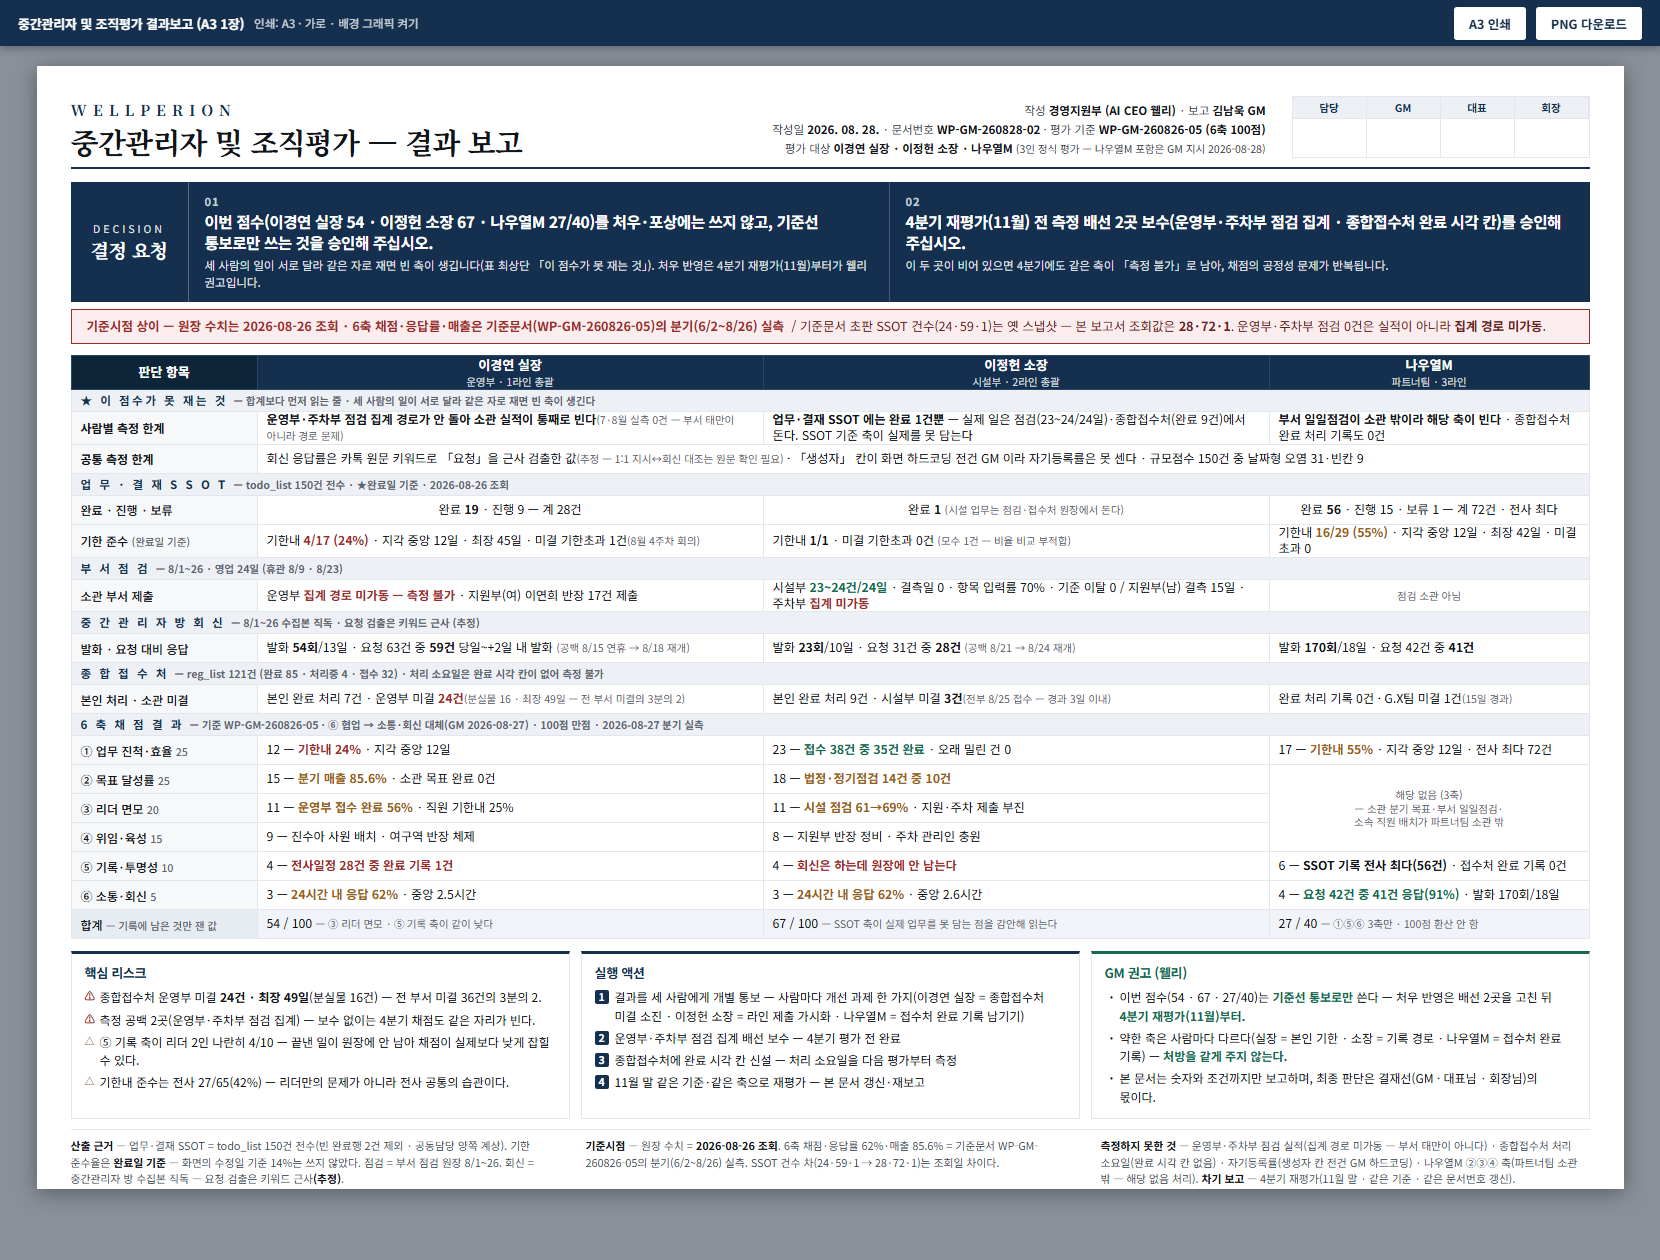
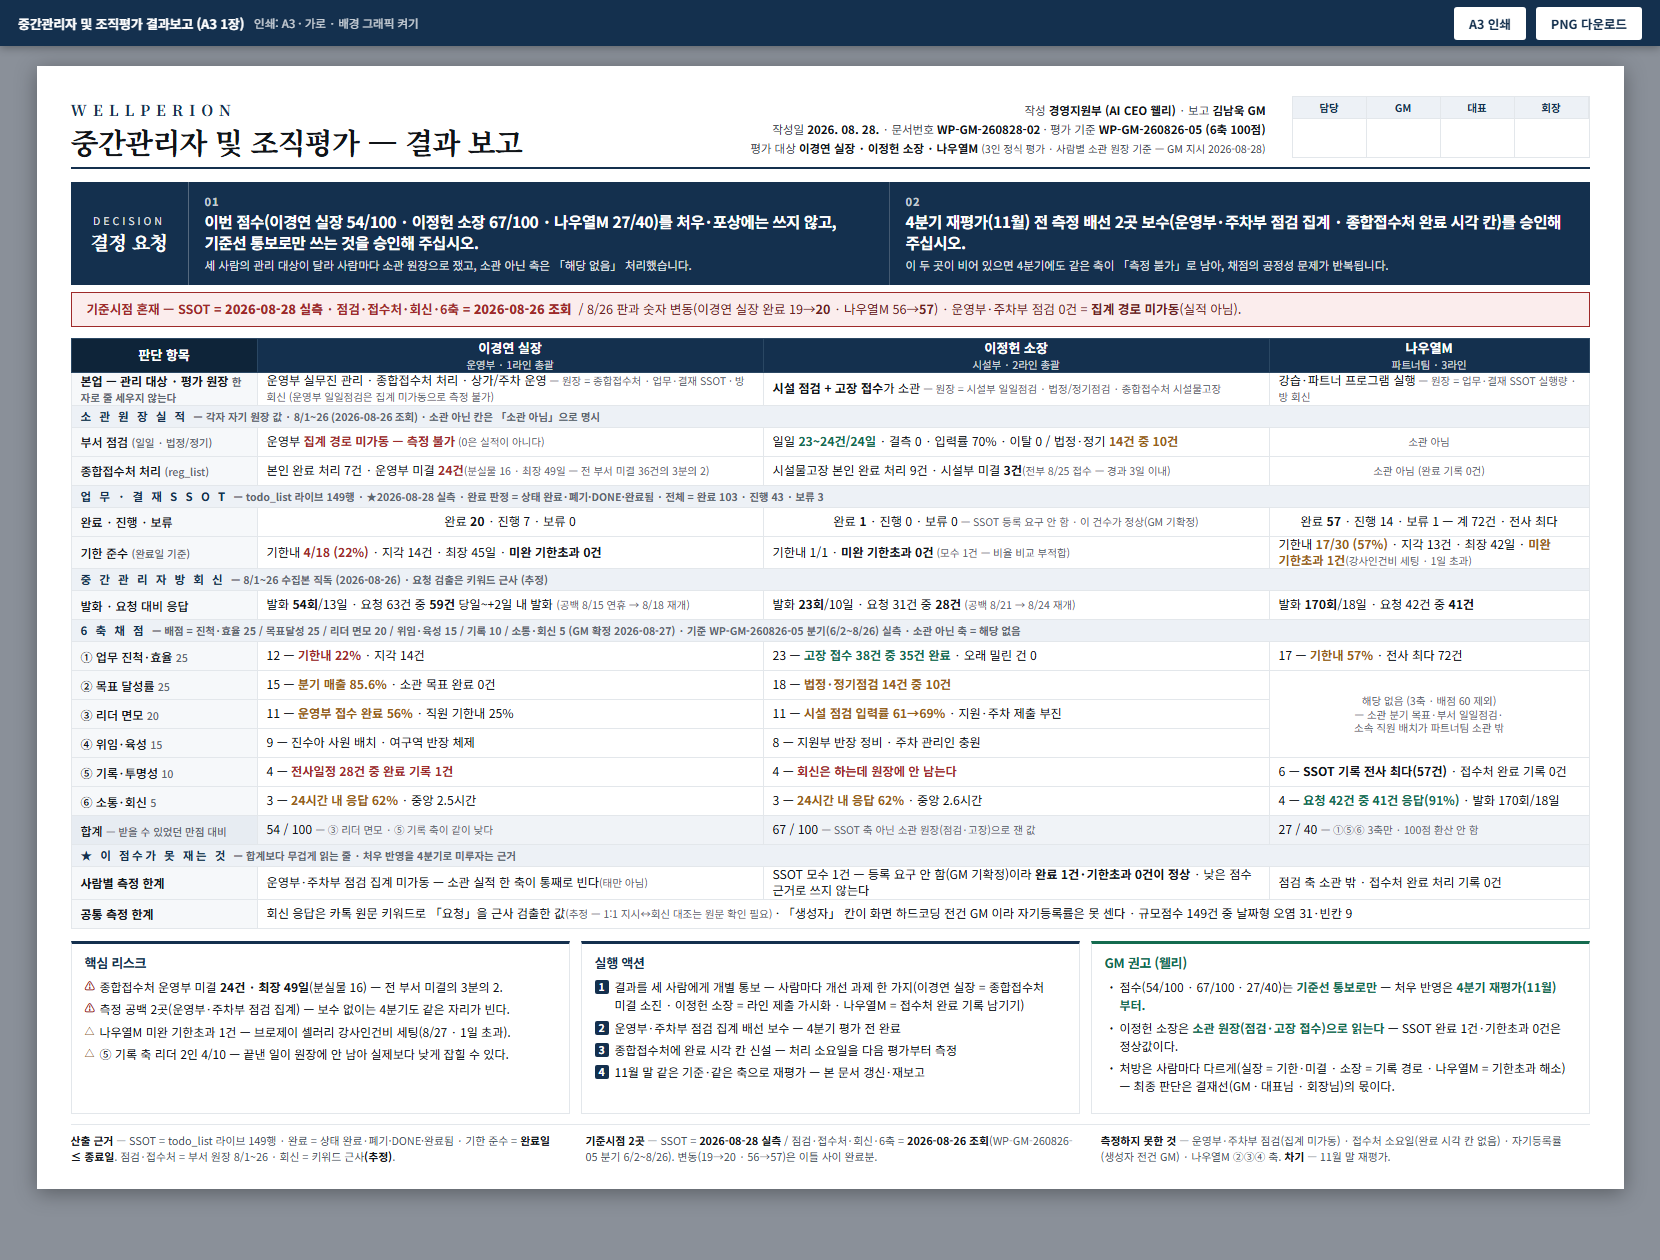
docs(ceo): 리더 평가 축을 소관 원장 기준으로 재설계 + 8/28 실측 반영 (GM 지시 2026-08-28)

Changed region(s): [[0.0307, 0.1548, 0.9524, 0.9595], [0.4608, 0.0929, 0.7066, 0.1238]]

diff --git a/3. 웰페리온 가이드/reports/260828_중간관리자_조직평가_결과보고_A3.html b/3. 웰페리온 가이드/reports/260828_중간관리자_조직평가_결과보고_A3.html
@@ -133,7 +133,7 @@
     <div class="meta">
       작성 <b>경영지원부 (AI CEO 웰리)</b> · 보고 <b>김남욱 GM</b><br>
       작성일 <b>2026. 08. 28.</b> · 문서번호 <b>WP-GM-260828-02</b> · 평가 기준 <b>WP-GM-260826-05 (6축 100점)</b><br>
-      평가 대상 <b>이경연 실장 · 이정헌 소장 · 나우열M</b> <span style="font-size:10.5px">(3인 정식 평가 — 나우열M 포함은 GM 지시 2026-08-28)</span>
+      평가 대상 <b>이경연 실장 · 이정헌 소장 · 나우열M</b> <span style="font-size:10.5px">(3인 정식 평가 · 사람별 소관 원장 기준 — GM 지시 2026-08-28)</span>
     </div>
     <div class="sign">
       <div><div class="t">담당</div><div class="b"></div></div>
@@ -149,8 +149,8 @@
     <div class="items">
       <div class="it">
         <div class="n">01</div>
-        <div class="q">이번 점수(이경연 실장 54 · 이정헌 소장 67 · 나우열M 27/40)를 처우·포상에는 쓰지 않고, 기준선 통보로만 쓰는 것을 승인해 주십시오.</div>
-        <div class="d">세 사람의 일이 서로 달라 같은 자로 재면 빈 축이 생깁니다(표 최상단 「이 점수가 못 재는 것」). 처우 반영은 4분기 재평가(11월)부터가 웰리 권고입니다.</div>
+        <div class="q">이번 점수(이경연 실장 54/100 · 이정헌 소장 67/100 · 나우열M 27/40)를 처우·포상에는 쓰지 않고, 기준선 통보로만 쓰는 것을 승인해 주십시오.</div>
+        <div class="d">세 사람의 관리 대상이 달라 사람마다 소관 원장으로 쟀고, 소관 아닌 축은 「해당 없음」 처리했습니다.</div>
       </div>
       <div class="it">
         <div class="n">02</div>
@@ -162,8 +162,8 @@
 
   <!-- 경고 밴드 -->
   <div class="alert">
-    기준시점 상이 — 원장 수치는 2026-08-26 조회 · 6축 채점·응답률·매출은 기준문서(WP-GM-260826-05)의 분기(6/2~8/26) 실측
-    <span>&nbsp;/ 기준문서 초판 SSOT 건수(24·59·1)는 옛 스냅샷 — 본 보고서 조회값은 <b>28·72·1</b>. 운영부·주차부 점검 0건은 실적이 아니라 <b>집계 경로 미가동</b>.</span>
+    기준시점 혼재 — SSOT = <b>2026-08-28 실측</b> · 점검·접수처·회신·6축 = <b>2026-08-26 조회</b>
+    <span>&nbsp;/ 8/26 판과 숫자 변동(이경연 실장 완료 19→<b>20</b> · 나우열M 56→<b>57</b>) · 운영부·주차부 점검 0건 = <b>집계 경로 미가동</b>(실적 아님).</span>
   </div>
 
   <!-- ③ 표 -->
@@ -179,69 +179,72 @@
       </tr>
     </thead>
     <tbody>
-      <tr class="grp"><td colspan="4">★ 이 점수가 못 재는 것 <span style="letter-spacing:0" class="est">— 합계보다 먼저 읽는 줄 · 세 사람의 일이 서로 달라 같은 자로 재면 빈 축이 생긴다</span></td></tr>
-      <tr><td class="k strong">사람별 측정 한계</td>
-        <td><b>운영부·주차부 점검 집계 경로가 안 돌아 소관 실적이 통째로 빈다</b><span class="est">(7·8월 실측 0건 — 부서 태만이 아니라 경로 문제)</span></td>
-        <td><b>업무·결재 SSOT 에는 완료 1건뿐</b> — 실제 일은 점검(23~24/24일)·종합접수처(완료 9건)에서 돈다. SSOT 기준 축이 실제를 못 담는다</td>
-        <td><b>부서 일일점검이 소관 밖이라 해당 축이 빈다</b> · 종합접수처 완료 처리 기록도 0건</td></tr>
-      <tr><td class="k strong">공통 측정 한계</td>
-        <td colspan="3">회신 응답률은 카톡 원문 키워드로 「요청」을 근사 검출한 값<span class="est">(추정 — 1:1 지시↔회신 대조는 원문 확인 필요)</span> · 「생성자」 칸이 화면 하드코딩 전건 GM 이라 자기등록률은 못 센다 · 규모점수 150건 중 날짜형 오염 31·빈칸 9</td></tr>
+      <tr><td class="k strong">본업 — 관리 대상 · 평가 원장 <span class="est">한 자로 줄 세우지 않는다</span></td>
+        <td>운영부 실무진 관리 · 종합접수처 처리 · 상가/주차 운영<span class="est"> — 원장 = 종합접수처 · 업무·결재 SSOT · 방 회신 (운영부 일일점검은 집계 미가동으로 측정 불가)</span></td>
+        <td><b>시설 점검 + 고장 접수</b>가 소관<span class="est"> — 원장 = 시설부 일일점검 · 법정/정기점검 · 종합접수처 시설물고장</span></td>
+        <td>강습·파트너 프로그램 실행<span class="est"> — 원장 = 업무·결재 SSOT 실행량 · 방 회신</span></td></tr>
 
-      <tr class="grp"><td colspan="4">업 무 · 결 재 S S O T <span style="letter-spacing:0" class="est">— todo_list 150건 전수 · ★완료일 기준 · 2026-08-26 조회</span></td></tr>
+      <tr class="grp"><td colspan="4">소 관 원 장 실 적 <span style="letter-spacing:0" class="est">— 각자 자기 원장 값 · 8/1~26 (2026-08-26 조회) · 소관 아닌 칸은 「소관 아님」으로 명시</span></td></tr>
+      <tr><td class="k">부서 점검 <span class="est">(일일 · 법정/정기)</span></td>
+        <td>운영부 <b class="bad">집계 경로 미가동 — 측정 불가</b><span class="est"> (0은 실적이 아니다)</span></td>
+        <td>일일 <b class="good">23~24건/24일</b> · 결측 0 · 입력률 70% · 이탈 0 / 법정·정기 <b class="warn">14건 중 10건</b></td>
+        <td class="ctr est">소관 아님</td></tr>
+      <tr><td class="k">종합접수처 처리 <span class="est">(reg_list)</span></td>
+        <td>본인 완료 처리 7건 · 운영부 미결 <b class="bad">24건</b><span class="est">(분실물 16 · 최장 49일 — 전 부서 미결 36건의 3분의 2)</span></td>
+        <td>시설물고장 본인 완료 처리 9건 · 시설부 미결 <b>3건</b><span class="est">(전부 8/25 접수 — 경과 3일 이내)</span></td>
+        <td class="ctr est">소관 아님 (완료 기록 0건)</td></tr>
+
+      <tr class="grp"><td colspan="4">업 무 · 결 재 S S O T <span style="letter-spacing:0" class="est">— todo_list 라이브 149행 · ★2026-08-28 실측 · 완료 판정 = 상태 완료·폐기·DONE·완료됨 · 전체 = 완료 103 · 진행 43 · 보류 3</span></td></tr>
       <tr><td class="k">완료 · 진행 · 보류</td>
-        <td class="ctr">완료 <b>19</b> · 진행 9 — 계 28건</td>
-        <td class="ctr">완료 <b>1</b> <span class="est">(시설 업무는 점검·접수처 원장에서 돈다)</span></td>
-        <td class="ctr">완료 <b>56</b> · 진행 15 · 보류 1 — 계 72건 · 전사 최다</td></tr>
+        <td class="ctr">완료 <b>20</b> · 진행 7 · 보류 0</td>
+        <td class="ctr">완료 <b>1</b> · 진행 0 · 보류 0<span class="est"> — SSOT 등록 요구 안 함 · 이 건수가 정상(GM 기확정)</span></td>
+        <td class="ctr">완료 <b>57</b> · 진행 14 · 보류 1 — 계 72건 · 전사 최다</td></tr>
       <tr><td class="k">기한 준수 <span class="est">(완료일 기준)</span></td>
-        <td>기한내 <b class="bad">4/17 (24%)</b> · 지각 중앙 12일 · 최장 45일 · 미결 기한초과 1건<span class="est">(8월 4주차 회의)</span></td>
-        <td>기한내 <b>1/1</b> · 미결 기한초과 0건 <span class="est">(모수 1건 — 비율 비교 부적합)</span></td>
-        <td>기한내 <b class="warn">16/29 (55%)</b> · 지각 중앙 12일 · 최장 42일 · 미결 초과 0</td></tr>
+        <td>기한내 <b class="bad">4/18 (22%)</b> · 지각 14건 · 최장 45일 · <b>미완 기한초과 0건</b></td>
+        <td>기한내 1/1 · <b>미완 기한초과 0건</b><span class="est"> (모수 1건 — 비율 비교 부적합)</span></td>
+        <td>기한내 <b class="warn">17/30 (57%)</b> · 지각 13건 · 최장 42일 · <b class="warn">미완 기한초과 1건</b><span class="est">(강사인건비 세팅 · 1일 초과)</span></td></tr>
 
-      <tr class="grp"><td colspan="4">부 서 점 검 <span style="letter-spacing:0" class="est">— 8/1~26 · 영업 24일 (휴관 8/9 · 8/23)</span></td></tr>
-      <tr><td class="k">소관 부서 제출</td>
-        <td>운영부 <b class="bad">집계 경로 미가동 — 측정 불가</b> · 지원부(여) 이연희 반장 17건 제출</td>
-        <td>시설부 <b class="good">23~24건/24일</b> · 결측일 0 · 항목 입력률 70% · 기준 이탈 0 / 지원부(남) 결측 15일 · 주차부 <b class="bad">집계 미가동</b></td>
-        <td class="ctr est">점검 소관 아님</td></tr>
-
-      <tr class="grp"><td colspan="4">중 간 관 리 자 방 회 신 <span style="letter-spacing:0" class="est">— 8/1~26 수집본 직독 · 요청 검출은 키워드 근사 (추정)</span></td></tr>
+      <tr class="grp"><td colspan="4">중 간 관 리 자 방 회 신 <span style="letter-spacing:0" class="est">— 8/1~26 수집본 직독 (2026-08-26) · 요청 검출은 키워드 근사 (추정)</span></td></tr>
       <tr><td class="k">발화 · 요청 대비 응답</td>
         <td>발화 <b>54회</b>/13일 · 요청 63건 중 <b>59건</b> 당일~+2일 내 발화 <span class="est">(공백 8/15 연휴 → 8/18 재개)</span></td>
         <td>발화 <b>23회</b>/10일 · 요청 31건 중 <b>28건</b> <span class="est">(공백 8/21 → 8/24 재개)</span></td>
         <td>발화 <b>170회</b>/18일 · 요청 42건 중 <b>41건</b></td></tr>
 
-      <tr class="grp"><td colspan="4">종 합 접 수 처 <span style="letter-spacing:0" class="est">— reg_list 121건 (완료 85 · 처리중 4 · 접수 32) · 처리 소요일은 완료 시각 칸이 없어 측정 불가</span></td></tr>
-      <tr><td class="k">본인 처리 · 소관 미결</td>
-        <td>본인 완료 처리 7건 · 운영부 미결 <b class="bad">24건</b><span class="est">(분실물 16 · 최장 49일 — 전 부서 미결의 3분의 2)</span></td>
-        <td>본인 완료 처리 9건 · 시설부 미결 <b>3건</b><span class="est">(전부 8/25 접수 — 경과 3일 이내)</span></td>
-        <td>완료 처리 기록 0건 · G.X팀 미결 1건<span class="est">(15일 경과)</span></td></tr>
-
-      <tr class="grp"><td colspan="4">6 축 채 점 결 과 <span style="letter-spacing:0" class="est">— 기준 WP-GM-260826-05 · ⑥ 협업 → 소통·회신 대체(GM 2026-08-27) · 100점 만점 · 2026-08-27 분기 실측</span></td></tr>
+      <tr class="grp"><td colspan="4">6 축 채 점 <span style="letter-spacing:0" class="est">— 배점 = 진척·효율 25 / 목표달성 25 / 리더 면모 20 / 위임·육성 15 / 기록 10 / 소통·회신 5 (GM 확정 2026-08-27) · 기준 WP-GM-260826-05 분기(6/2~8/26) 실측 · 소관 아닌 축 = 해당 없음</span></td></tr>
       <tr><td class="k">① 업무 진척·효율 <span class="est">25</span></td>
-        <td>12 — <b class="bad">기한내 24%</b> · 지각 중앙 12일</td>
-        <td>23 — <b class="good">접수 38건 중 35건 완료</b> · 오래 밀린 건 0</td>
-        <td>17 — <b class="warn">기한내 55%</b> · 지각 중앙 12일 · 전사 최다 72건</td></tr>
+        <td>12 — <b class="bad">기한내 22%</b> · 지각 14건</td>
+        <td>23 — <b class="good">고장 접수 38건 중 35건 완료</b> · 오래 밀린 건 0</td>
+        <td>17 — <b class="warn">기한내 57%</b> · 전사 최다 72건</td></tr>
       <tr><td class="k">② 목표 달성률 <span class="est">25</span></td>
         <td>15 — <b class="warn">분기 매출 85.6%</b> · 소관 목표 완료 0건</td>
         <td>18 — <b class="warn">법정·정기점검 14건 중 10건</b></td>
-        <td class="ctr est" rowspan="3">해당 없음 (3축)<br>— 소관 분기 목표·부서 일일점검·<br>소속 직원 배치가 파트너팀 소관 밖</td></tr>
+        <td class="ctr est" rowspan="3">해당 없음 (3축 · 배점 60 제외)<br>— 소관 분기 목표·부서 일일점검·<br>소속 직원 배치가 파트너팀 소관 밖</td></tr>
       <tr><td class="k">③ 리더 면모 <span class="est">20</span></td>
         <td>11 — <b class="warn">운영부 접수 완료 56%</b> · 직원 기한내 25%</td>
-        <td>11 — <b class="warn">시설 점검 61→69%</b> · 지원·주차 제출 부진</td></tr>
+        <td>11 — <b class="warn">시설 점검 입력률 61→69%</b> · 지원·주차 제출 부진</td></tr>
       <tr><td class="k">④ 위임·육성 <span class="est">15</span></td>
         <td>9 — 진수아 사원 배치 · 여구역 반장 체제</td>
         <td>8 — 지원부 반장 정비 · 주차 관리인 충원</td></tr>
       <tr><td class="k">⑤ 기록·투명성 <span class="est">10</span></td>
         <td>4 — <b class="bad">전사일정 28건 중 완료 기록 1건</b></td>
         <td>4 — <b class="bad">회신은 하는데 원장에 안 남는다</b></td>
-        <td>6 — <b>SSOT 기록 전사 최다(56건)</b> · 접수처 완료 기록 0건</td></tr>
+        <td>6 — <b>SSOT 기록 전사 최다(57건)</b> · 접수처 완료 기록 0건</td></tr>
       <tr><td class="k">⑥ 소통·회신 <span class="est">5</span></td>
         <td>3 — <b class="warn">24시간 내 응답 62%</b> · 중앙 2.5시간</td>
         <td>3 — <b class="warn">24시간 내 응답 62%</b> · 중앙 2.6시간</td>
         <td>4 — <b class="good">요청 42건 중 41건 응답(91%)</b> · 발화 170회/18일</td></tr>
-      <tr class="sum"><td class="k">합계 <span class="est">— 기록에 남은 것만 잰 값</span></td>
+      <tr class="sum"><td class="k">합계 <span class="est">— 받을 수 있었던 만점 대비</span></td>
         <td>54 / 100 <span class="est">— ③ 리더 면모 · ⑤ 기록 축이 같이 낮다</span></td>
-        <td>67 / 100 <span class="est">— SSOT 축이 실제 업무를 못 담는 점을 감안해 읽는다</span></td>
+        <td>67 / 100 <span class="est">— SSOT 축 아닌 소관 원장(점검·고장)으로 잰 값</span></td>
         <td>27 / 40 <span class="est">— ①⑤⑥ 3축만 · 100점 환산 안 함</span></td></tr>
+
+      <tr class="grp"><td colspan="4">★ 이 점수가 못 재는 것 <span style="letter-spacing:0" class="est">— 합계보다 무겁게 읽는 줄 · 처우 반영을 4분기로 미루자는 근거</span></td></tr>
+      <tr><td class="k strong">사람별 측정 한계</td>
+        <td>운영부·주차부 점검 집계 미가동 — 소관 실적 한 축이 통째로 빈다<span class="est">(태만 아님)</span></td>
+        <td>SSOT 모수 1건 — 등록 요구 안 함(GM 기확정)이라 <b>완료 1건·기한초과 0건이 정상</b> · 낮은 점수 근거로 쓰지 않는다</td>
+        <td>점검 축 소관 밖 · 접수처 완료 처리 기록 0건</td></tr>
+      <tr><td class="k strong">공통 측정 한계</td>
+        <td colspan="3">회신 응답은 카톡 원문 키워드로 「요청」을 근사 검출한 값<span class="est">(추정 — 1:1 지시↔회신 대조는 원문 확인 필요)</span> · 「생성자」 칸이 화면 하드코딩 전건 GM 이라 자기등록률은 못 센다 · 규모점수 149건 중 날짜형 오염 31·빈칸 9</td></tr>
     </tbody>
   </table>
   </div>
@@ -251,10 +254,10 @@
     <div class="box">
       <h3>핵심 리스크</h3>
       <ul>
-        <li class="r1">종합접수처 운영부 미결 <b>24건 · 최장 49일</b>(분실물 16건) — 전 부서 미결 36건의 3분의 2.</li>
-        <li class="r1">측정 공백 2곳(운영부·주차부 점검 집계) — 보수 없이는 4분기 채점도 같은 자리가 빈다.</li>
-        <li class="r2">⑤ 기록 축이 리더 2인 나란히 4/10 — 끝낸 일이 원장에 안 남아 채점이 실제보다 낮게 잡힐 수 있다.</li>
-        <li class="r2">기한내 준수는 전사 27/65(42%) — 리더만의 문제가 아니라 전사 공통의 습관이다.</li>
+        <li class="r1">종합접수처 운영부 미결 <b>24건 · 최장 49일</b>(분실물 16) — 전 부서 미결의 3분의 2.</li>
+        <li class="r1">측정 공백 2곳(운영부·주차부 점검 집계) — 보수 없이는 4분기도 같은 자리가 빈다.</li>
+        <li class="r2">나우열M 미완 기한초과 1건 — 브로제이 셀러리 강사인건비 세팅(8/27 · 1일 초과).</li>
+        <li class="r2">⑤ 기록 축 리더 2인 4/10 — 끝낸 일이 원장에 안 남아 실제보다 낮게 잡힐 수 있다.</li>
       </ul>
     </div>
     <div class="box">
@@ -269,18 +272,18 @@
     <div class="box rec">
       <h3>GM 권고 (웰리)</h3>
       <ul>
-        <li>이번 점수(54 · 67 · 27/40)는 <b>기준선 통보로만</b> 쓴다 — 처우 반영은 배선 2곳을 고친 뒤 <b>4분기 재평가(11월)부터.</b></li>
-        <li>약한 축은 사람마다 다르다(실장 = 본인 기한 · 소장 = 기록 경로 · 나우열M = 접수처 완료 기록) — <b>처방을 같게 주지 않는다.</b></li>
-        <li>본 문서는 숫자와 조건까지만 보고하며, 최종 판단은 결재선(GM · 대표님 · 회장님)의 몫이다.</li>
+        <li>점수(54/100 · 67/100 · 27/40)는 <b>기준선 통보로만</b> — 처우 반영은 <b>4분기 재평가(11월)부터.</b></li>
+        <li>이정헌 소장은 <b>소관 원장(점검·고장 접수)으로 읽는다</b> — SSOT 완료 1건·기한초과 0건은 정상값이다.</li>
+        <li>처방은 사람마다 다르게(실장 = 기한·미결 · 소장 = 기록 경로 · 나우열M = 기한초과 해소) — 최종 판단은 결재선(GM · 대표님 · 회장님)의 몫이다.</li>
       </ul>
     </div>
   </div>
 
   <!-- ⑤ 각주 -->
   <div class="foot">
-    <div><b>산출 근거</b> — 업무·결재 SSOT = todo_list 150건 전수(빈 완료행 2건 제외 · 공동담당 양쪽 계상). 기한 준수율은 <b>완료일 기준</b> — 화면의 수정일 기준 14%는 쓰지 않았다. 점검 = 부서 점검 원장 8/1~26. 회신 = 중간관리자 방 수집본 직독 — 요청 검출은 키워드 근사<b>(추정)</b>.</div>
-    <div><b>기준시점</b> — 원장 수치 = <b>2026-08-26 조회</b>. 6축 채점·응답률 62%·매출 85.6% = 기준문서 WP-GM-260826-05의 분기(6/2~8/26) 실측. SSOT 건수 차(24·59·1 → 28·72·1)는 조회일 차이다.</div>
-    <div><b>측정하지 못한 것</b> — 운영부·주차부 점검 실적(집계 경로 미가동 — 부서 태만이 아니다) · 종합접수처 처리 소요일(완료 시각 칸 없음) · 자기등록률(생성자 칸 전건 GM 하드코딩) · 나우열M ②③④ 축(파트너팀 소관 밖 — 해당 없음 처리). <b>차기 보고</b> — 4분기 재평가(11월 말 · 같은 기준 · 같은 문서번호 갱신).</div>
+    <div><b>산출 근거</b> — SSOT = todo_list 라이브 149행 · 완료 = 상태 완료·폐기·DONE·완료됨 · 기한 준수 = <b>완료일 ≤ 종료일</b>. 점검·접수처 = 부서 원장 8/1~26 · 회신 = 키워드 근사<b>(추정)</b>.</div>
+    <div><b>기준시점 2곳</b> — SSOT = <b>2026-08-28 실측</b> / 점검·접수처·회신·6축 = <b>2026-08-26 조회</b>(WP-GM-260826-05 분기 6/2~8/26). 변동(19→20 · 56→57)은 이틀 사이 완료분.</div>
+    <div><b>측정하지 못한 것</b> — 운영부·주차부 점검(집계 미가동) · 접수처 소요일(완료 시각 칸 없음) · 자기등록률(생성자 전건 GM) · 나우열M ②③④ 축. <b>차기</b> — 11월 말 재평가.</div>
   </div>
 
 </div>
